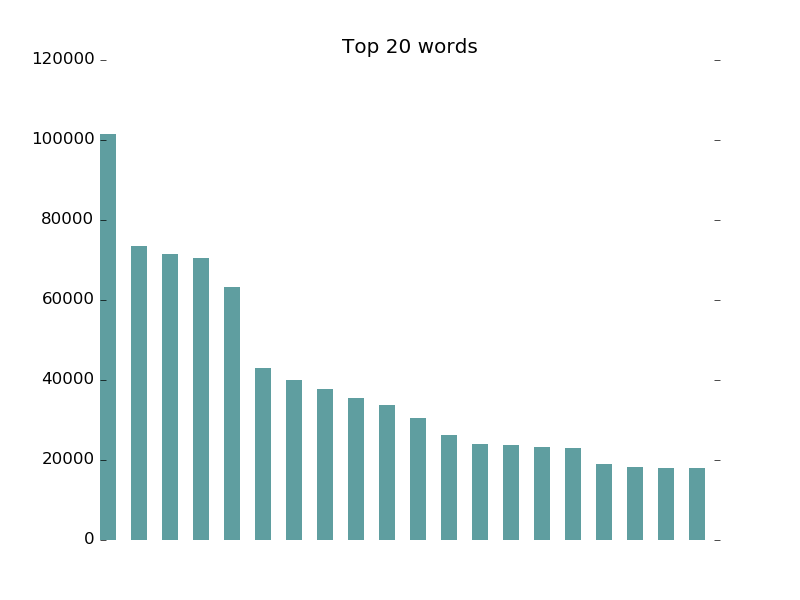
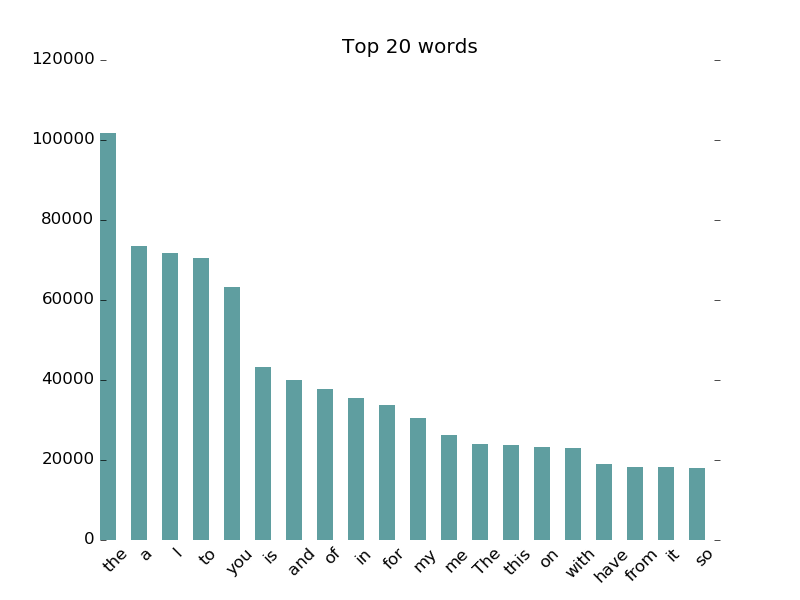
new plot

diff --git a/exercise_2/plot.py b/exercise_2/plot.py
@@ -50,8 +50,7 @@ plt.tick_params(
     bottom='off',      # ticks along the bottom edge are off
     top='off',         # ticks along the top edge are off
     left='off',
-    right='off',
-    labelbottom='off')
+    right='off')
 
 plt.savefig('plot.png')
 plt.show()
